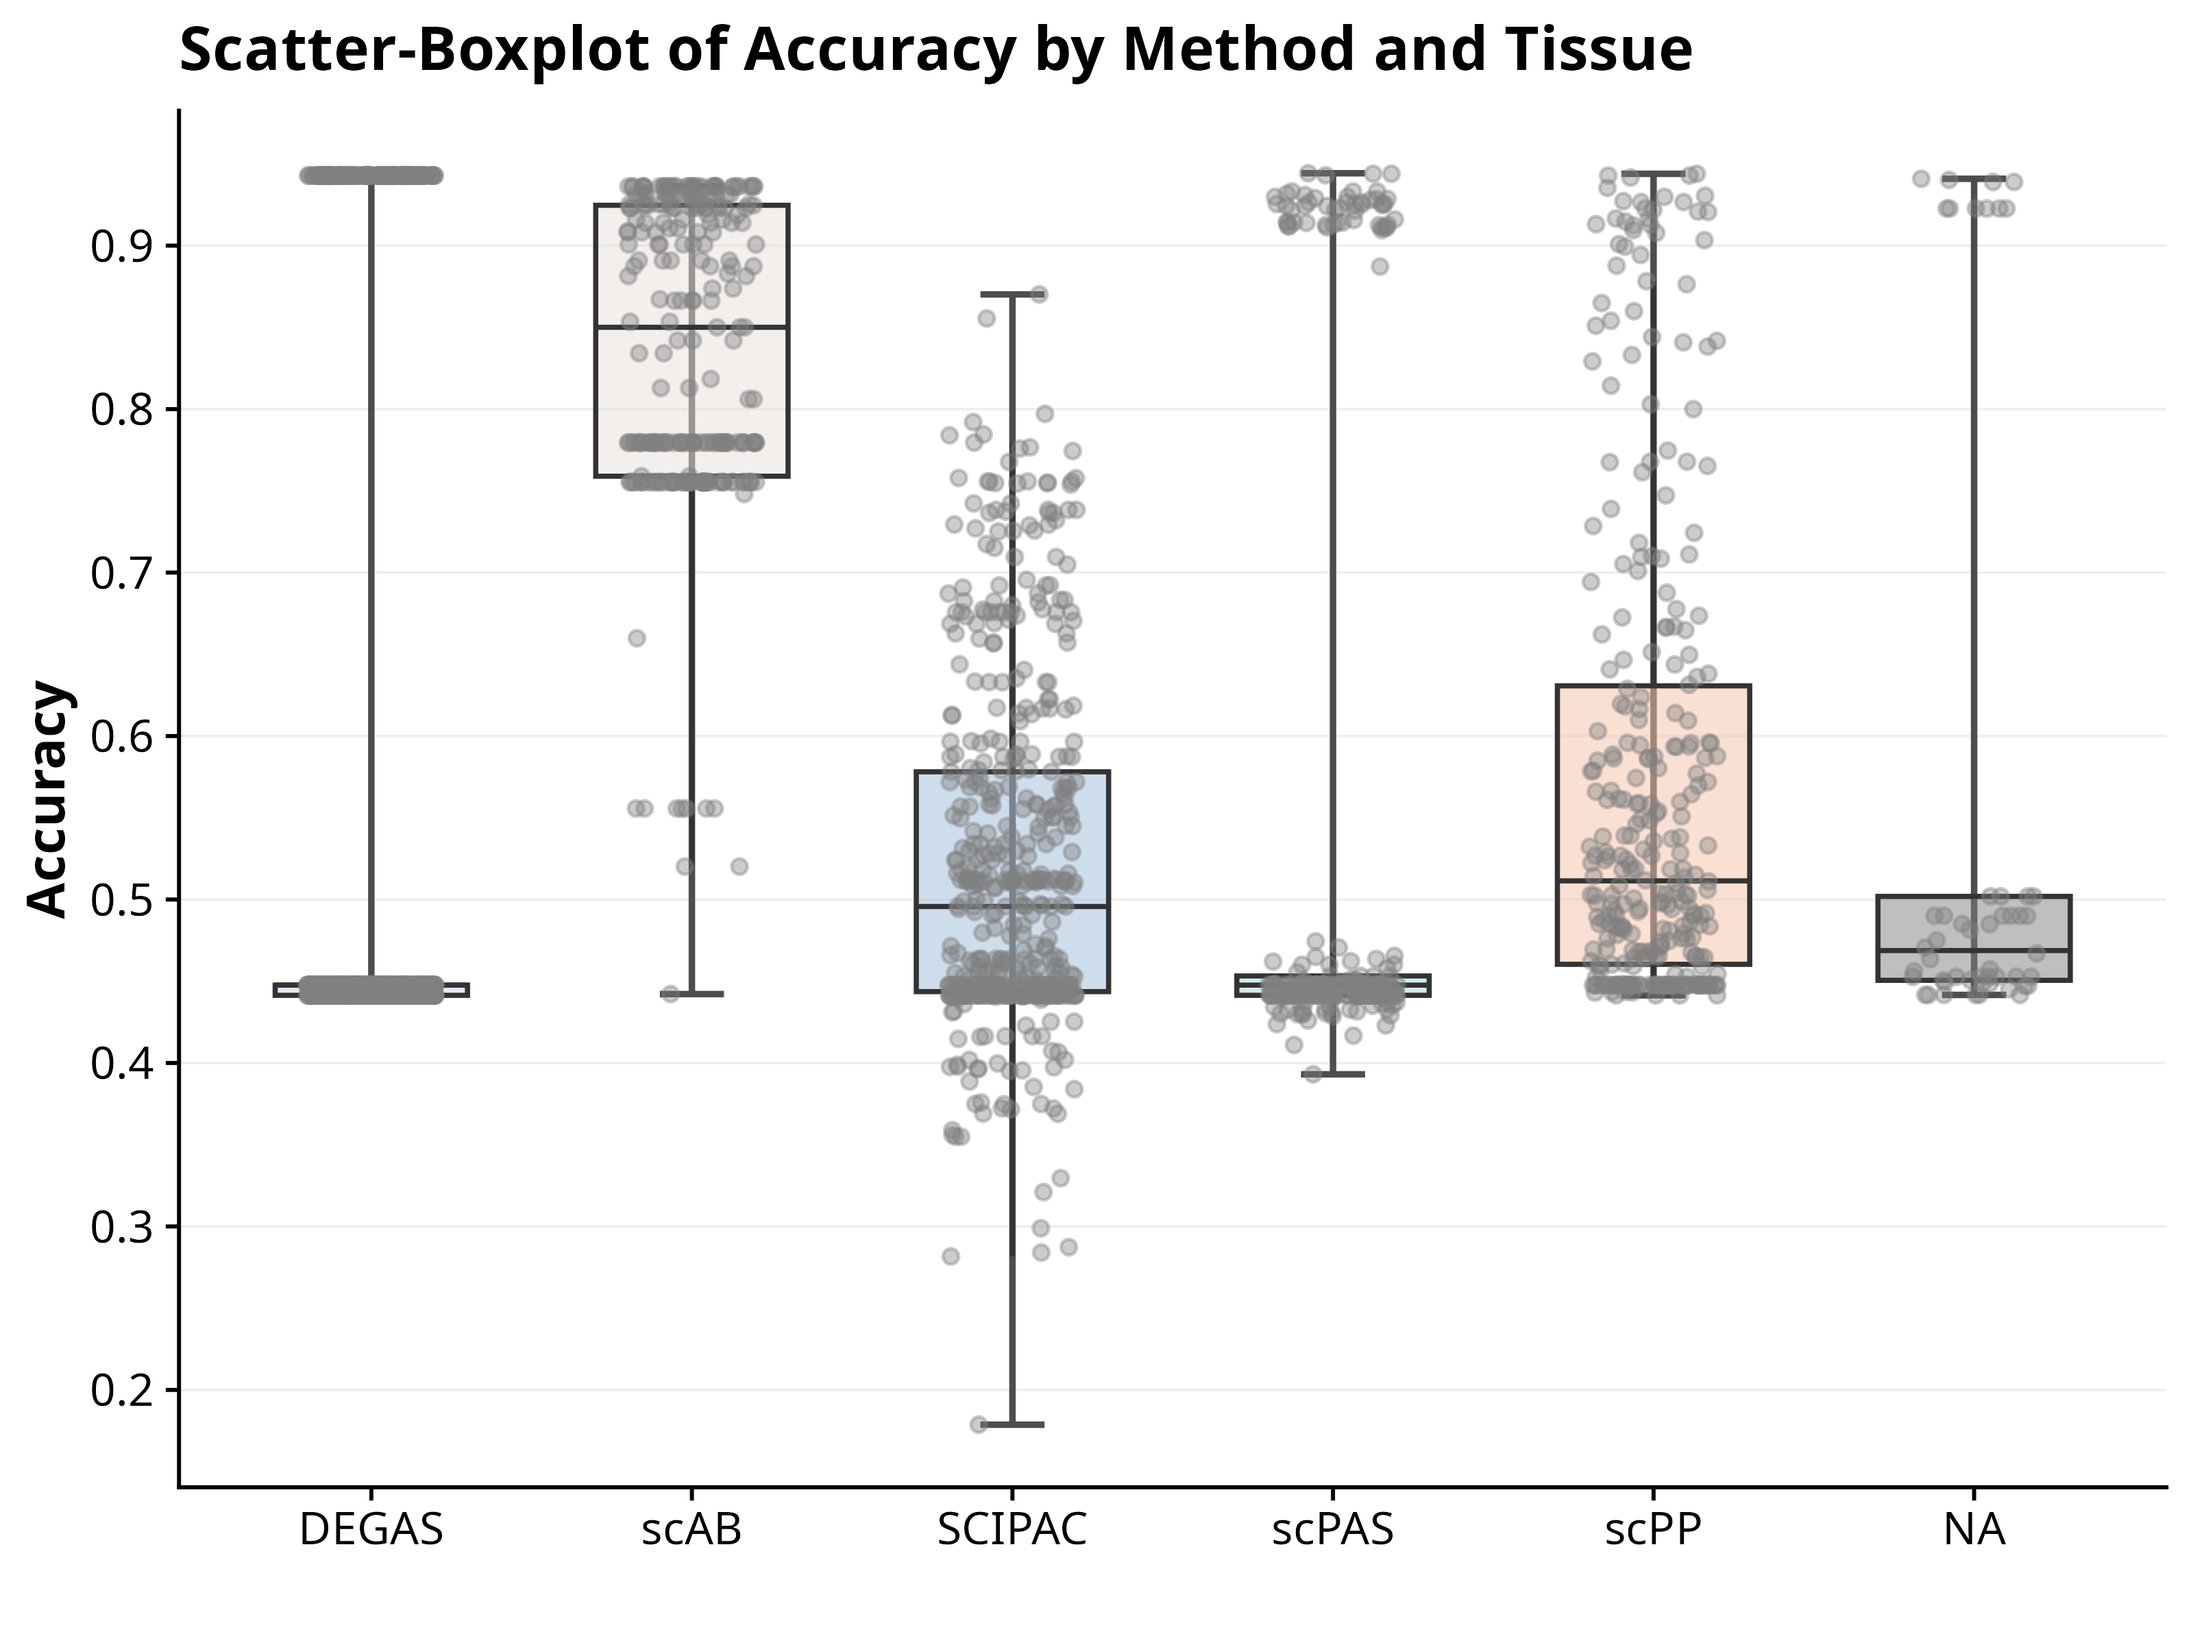
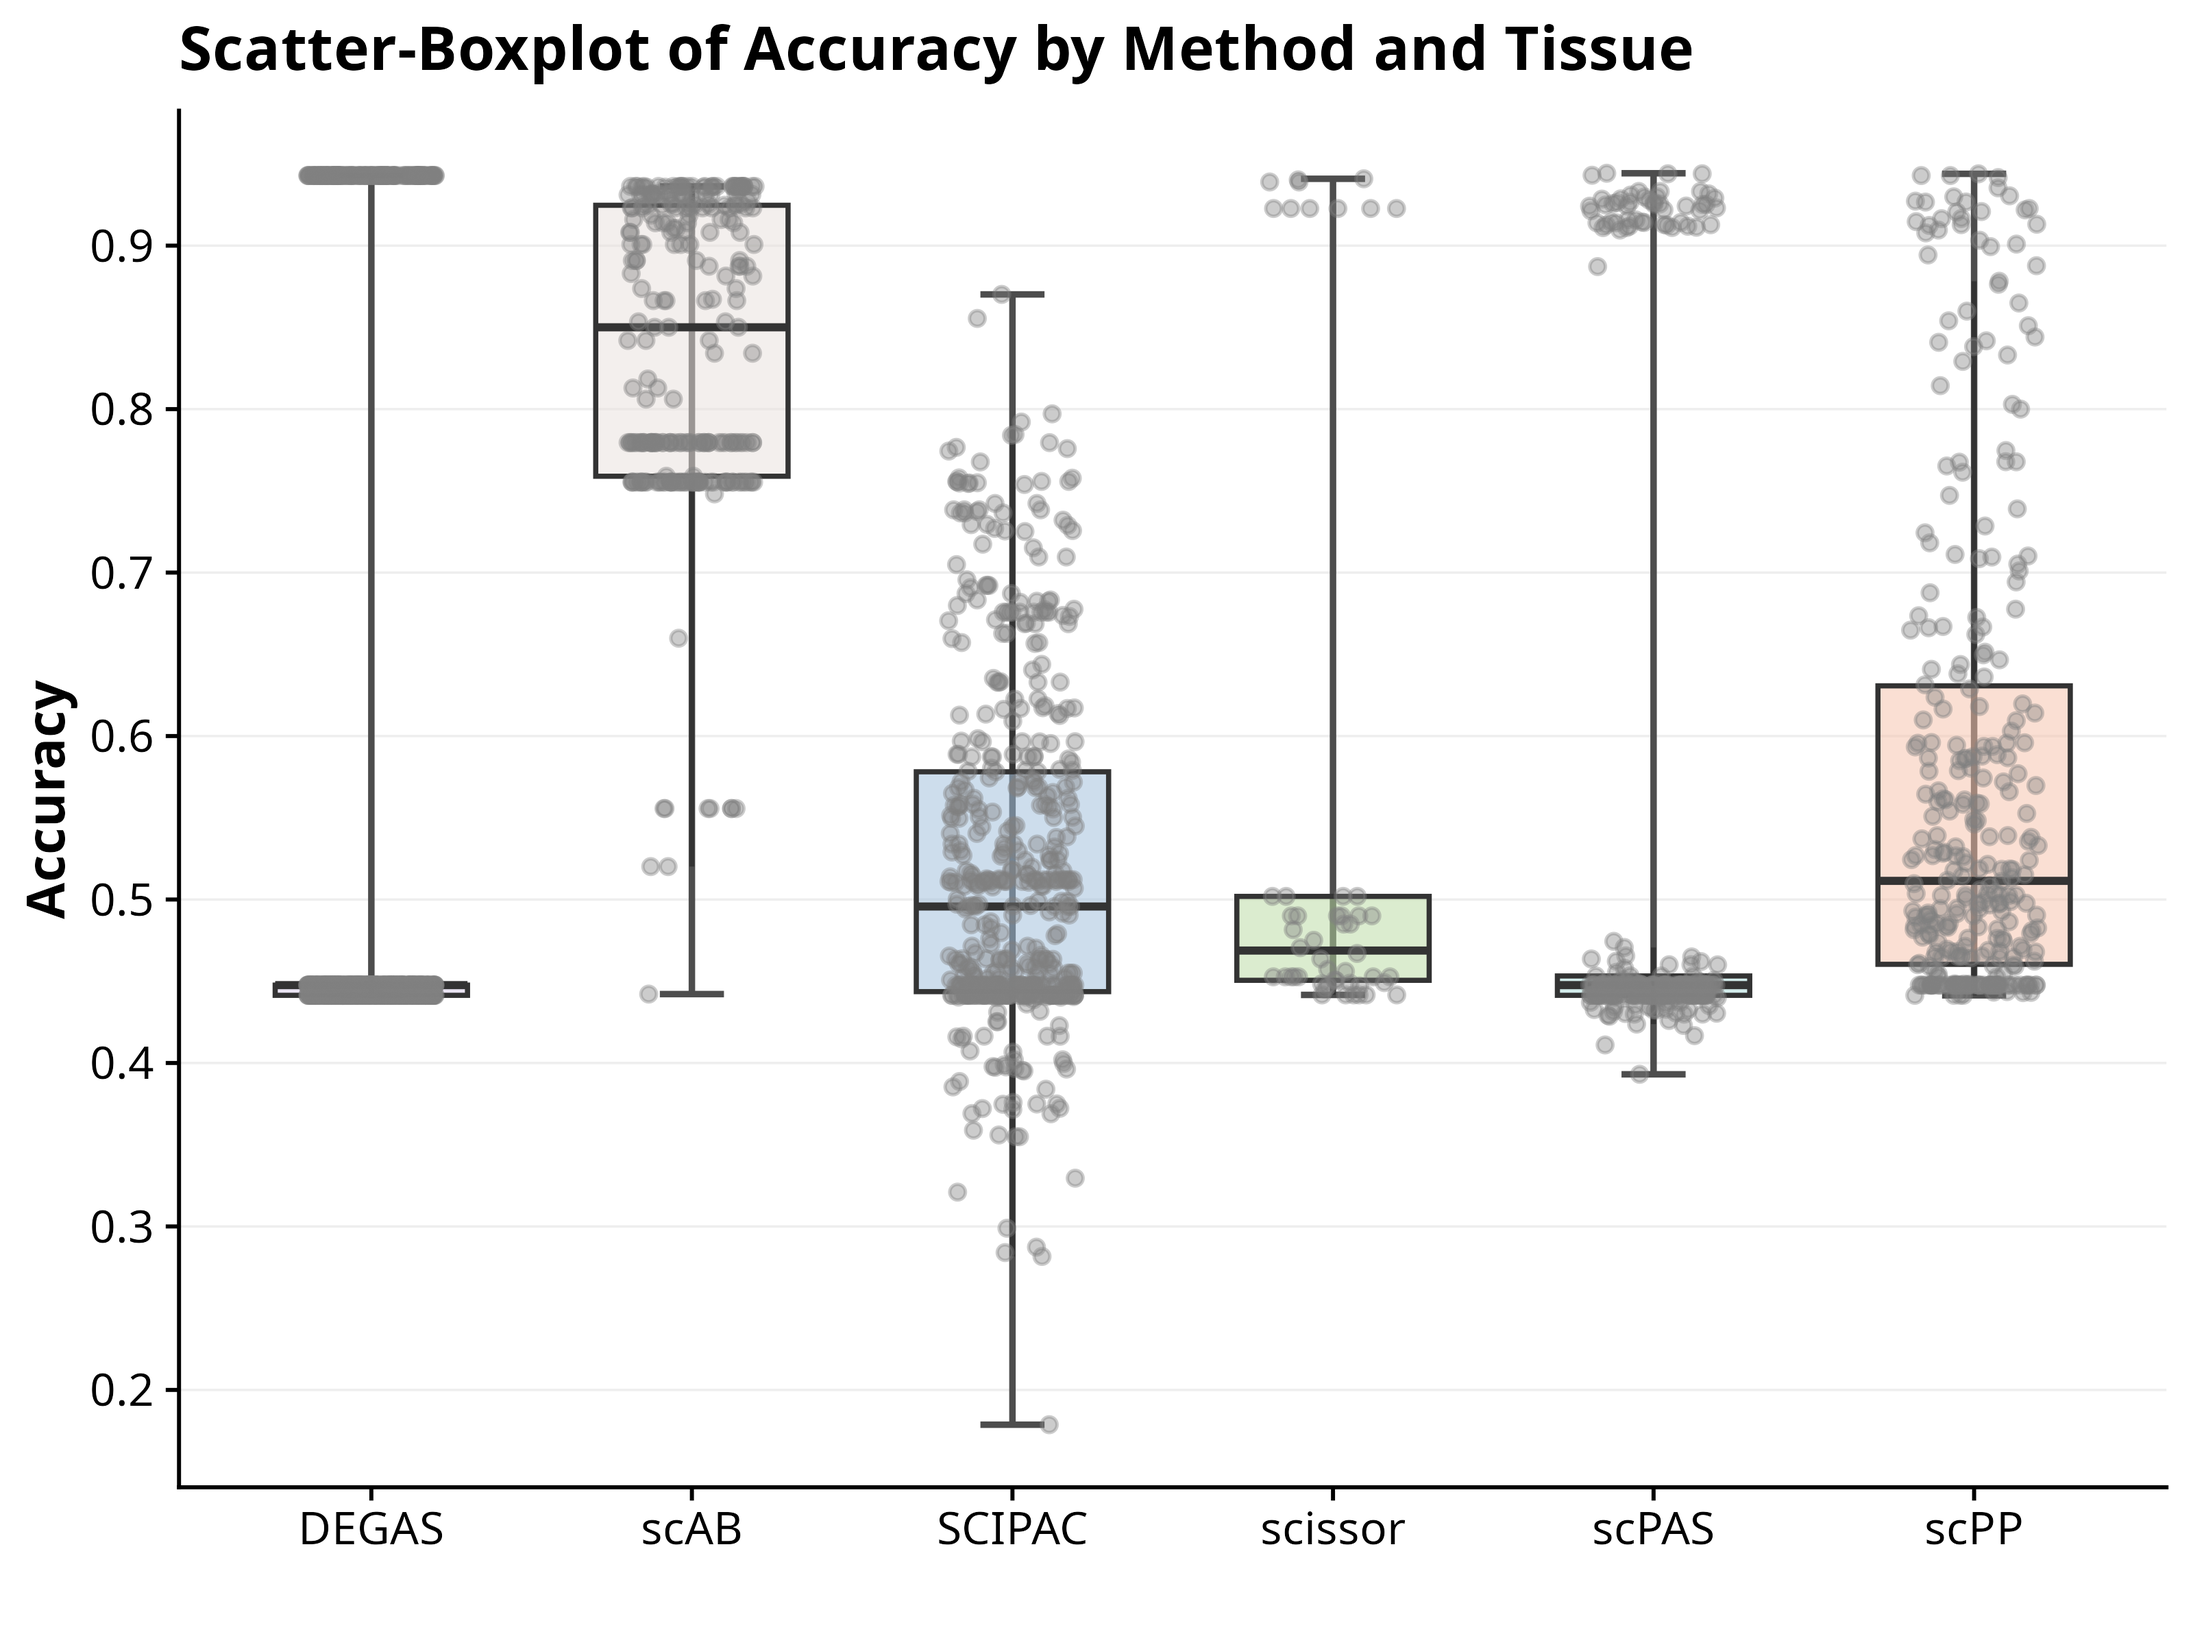
update spiral figures

diff --git a/paper_plot/Figure1A/text.md b/paper_plot/Figure1A/text.md
@@ -1,0 +1,3 @@
+# Graphical Abstract
+
+首先对经过常规预处理的单细胞Seurat对象数据进行SigBridgeR中整合所有需要评估的算法进行筛选，获得与表型正相关的细胞亚群，这些亚群被标记为“Positive”。其余的细胞，一些算法只归类为表型不相关或弱相关的亚群（标记为“Other”），另外有一些算法额外获取与表型负相关的细胞（标记为“Negative”)，为了研究方便，这两种细胞亚群被归类为“non Positive“。为了评估这些”Positive“的准确性，首先并以真实生物学标签（Tumor vs non-Tumor）作为参考基准，单细胞数据中已有肿瘤细胞和非肿瘤细胞标识，bulk RNA样本有肿瘤和非肿瘤之分，将bulk标签通过算法转移到单细胞层次计算指标，通过F1 score与Accuracy评估亚群划分与真实标签的一致性。随后基于bulk来源的基因集marker，在单细胞层面进行多种打分的 ssGSEA（GSVA、UCell 两种打分），一次评估这些算法的准确性。此外为了确定这些算法受到的技术噪声可以容忍，基于bulk来源的随机基因进行了同样的打分操作，并重复了100次。最后，单细胞数据中以“Positive”和“non Positive“为分组，获取两者枝江的marker，以MSigDB的hallmarks genesets为参考基准，计算每个算法的GSEA品谷，并结合表达矩阵对细胞进行特征刻画。
